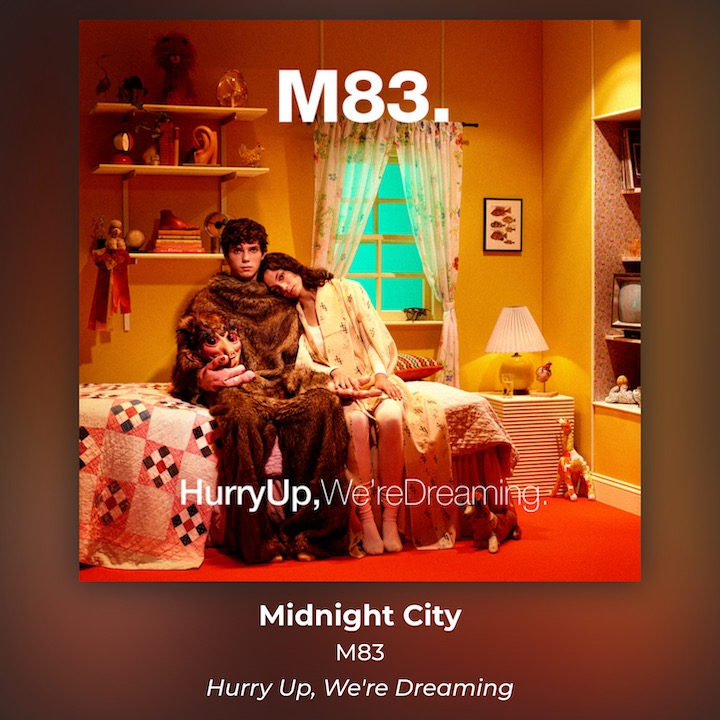
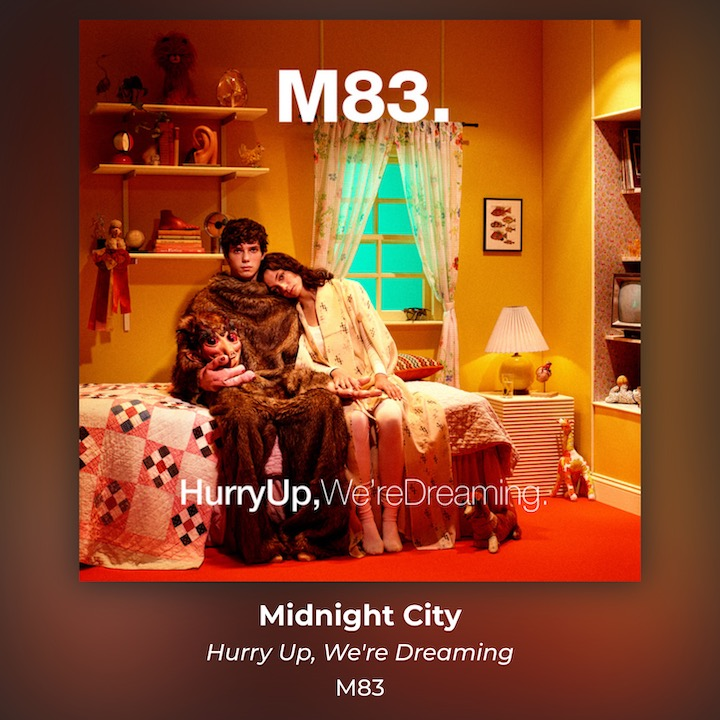
Change album/artist order

Changed region(s): [[0.275, 0.8861, 0.7333, 0.9778]]

diff --git a/src/components/playing/Track.tsx b/src/components/playing/Track.tsx
@@ -31,9 +31,9 @@ const Track: React.FC<TrackProps> = ({ track }) => {
 
           <h1>{track.name}</h1>
 
-          <h2>{track.artists.map((artist) => artist.name).join(', ')}</h2>
+          <h2>{track.album.name}</h2>
 
-          <h3>{track.album.name}</h3>
+          <h3>{track.artists.map((artist) => artist.name).join(', ')}</h3>
         </div>
       </div>
     </div>

diff --git a/src/App.css b/src/App.css
@@ -110,6 +110,7 @@
     & h2 {
       font-size: 3.1733cqi;
       font-weight: 500;
+      font-style: italic;
       margin-block-end: 0.45em;
     }
 
@@ -117,7 +118,6 @@
       /*font-size: 2.5389cqi;*/
       font-size: 3.1733cqi;
       font-weight: 500;
-      font-style: italic;
     }
   }
 }
